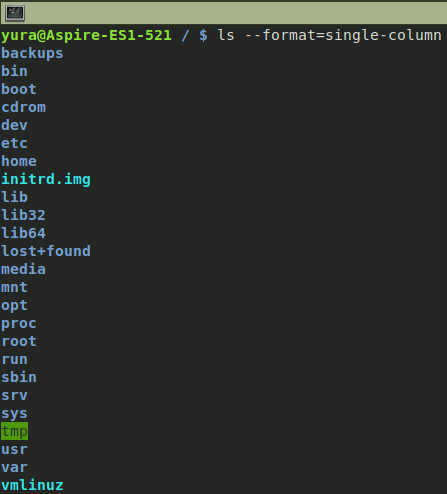
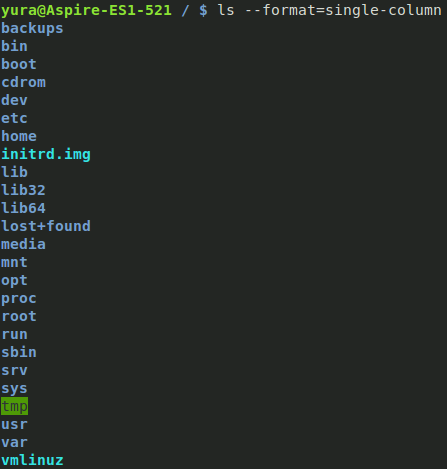
directory-art: refine illustrations

Changed region(s): [[0.0, 0.0, 1.0, 1.0]]

diff --git a/directory-art/directory-art.html b/directory-art/directory-art.html
@@ -50,15 +50,17 @@
 			портили рисунок. Но можно использовать
 			и обычные, т.е. видимые символы. По-моему, рисунок они не испортят. А если и испортят, то не сильно. Потому 
 			что консольные файловые менеджеры в DOS показывают расширение файла/каталога поодаль от его имени. Так, 
-			<i>Volcov/Norton Commander</i> в колонке <b>Name</b> выравнивают собственно имя файла/каталога по левому краю, 
+			<i>Norton/Volcov Commander</i> в колонке <b>Name</b> выравнивают собственно имя файла/каталога по левому краю, 
 			а расширение - по правому (см. <a href="#illustration-1">рисунок 1</a>). 
 			А поскольку расширения тусуются отдельно, они не сильно будут мешать восприятию рисунка.
 
 <h4 id="illustration-1">
 	Рисунок 1 - в двухпанельных файловых менеджерах DOS расширение отображается отдельно от имени
 </h4>
-<img src="illustrations/dos-commanders-names-and-extenstions.png">
-			
+<img 
+src="illustrations/dos-commanders-names-and-extenstions.png"
+width="320px">
+		
 		<p id="note-about-extensions-in-DOS">
 			Если задавать расширение с помощью только цифр, то получится 1000 уникальных комбинаций. Но в расширении 
 			можно использовать не только цифры.  Можно взять цифры, буквы, символ почеркивания и т.д. А затем создавать 
@@ -139,14 +141,18 @@
 			<a href="#illustration-4">рисунке 4</a>.
 
 <h4 id="illustration-4">Рисунок 4 - отображение листинга каталога командой ls с параметрами по-умочанию</h4>
-<img src="illustrations/ls-with-default-parameters.png">
+<img 
+src="illustrations/ls-with-default-parameters.png"
+width="720px">
 			
 		<p>
 			С помощью параметра <em>-1</em> (он же <em>--format=single-column</em>) можно вывести содержимое в один
 			столбец, как показано на <a href="#illustration-5">рисунке 5</a>.
 
 <h4 id="illustration-5">Рисунок 5 - отображение листинга командой ls в один столбец</h4>
-<img src="illustrations/ls-with-format-parameter.png">
+<img 
+src="illustrations/ls-with-format-parameter.png"
+width="480px">
 
 		<p>
 			Этого достаточно для красивого представления рисунка в консоли.
@@ -163,7 +169,9 @@
 			возможностей для сортировки (см. <a href="#illustration-6">рисунок 6</a>).
 			
 <h4 id="illustration-6">Рисунок 6 - опции сортировки листинга каталога в Midnight Commander</h4>
-<img src="illustrations/mc-sorting-options.png">
+<img 
+src="illustrations/mc-sorting-options.png"
+width="320px">
 			
 		<p>Разберем их.
 		
@@ -352,6 +360,7 @@ $ ls -1 /tmp/tmppfn4ghv4
 $ cat a.txt | ./directoryart.py 
 /tmp/tmpcxvhw4km
 
+
 $ export LC_ALL=C
 
 
@@ -411,7 +420,7 @@ $ ls -1 -t /tmp/tmp3o7_qfoe
 		<h2>Маленькое утешение</h2>	
 			
 		<p>
-			Попробуем наш скрипт на большом ASCII-рисунке. Например, на таком (взял с сайта 
+			Попробуем наш скрипт на большом ASCII-рисунке. Например, на таком (взят с сайта 
 			<a href="http://www.chris.com">www.chris.com</a>):
 
 <h4 id="illustration-7">Рисунок 7 - большой ASCII-рисунок</h4>		
@@ -426,7 +435,9 @@ $ ls -1 -t /tmp/tmp3o7_qfoe
 			выглядит так:
 		
 <h4 id="illustration-8">Рисунок 8 - большой ASCII-рисунок, отображаемый в эмуляторе терминала</h4>
-<img src="illustrations/Lauren-Michelle-Hill_gnome-terminal.png">
+<img 
+src="illustrations/Lauren-Michelle-Hill_gnome-terminal.png"
+width="676px">
 
 		<p>
 			Интересный момент, как же так получилось, что в именах файлов встречаются слэши, ведь они недопустимы в Linux?
@@ -440,7 +451,9 @@ $ ls -1 -t /tmp/tmp3o7_qfoe
 			(странно, конечно, ведь в случае с <strong>ls</strong> опция <em>-t</em> не требовала обратного порядка...).
 		
 <h4 id="illustration-8">Рисунок 8 - большой ASCII-рисунок, отображаемый в Midnight Commander'е</h4>
-<img src="illustrations/Lauren-Michelle-Hill_mc.png">
+<img 
+src="illustrations/Lauren-Michelle-Hill_mc.png"
+width="676px">
 
 		<p>
 			Начинания с Unicode-пробелами в деле рисования с помощью каталогов разбились вдребезги о суровую реальность.
